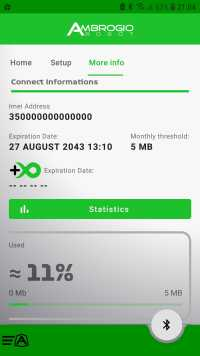
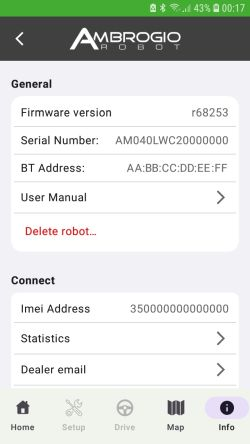
Update README

diff --git a/README.md b/README.md
@@ -68,29 +68,9 @@ Start setup:
 
 ## Configuration
 
-### Authorization
+### Start
 
 The garage name can be chosen freely.
-
-Get client key from lawn mower mobile app:
-
-   **:warning: Pay attention** Android recommended, because in the iPhone app all characters are incorrectly displayed in capital letters.
-
-1. Open the app on your mobile device.
-
-   :information_source: In the best case, you create a new account (via the mobile app) and connect it to your lawn mower(s). Then there should be no problems when you use the HA integration and the mobile app at the same time.
-
-2. Click on the `Setup` tab.
-
-3. In the `Connect Settings` section, click `Registered "Connect Clients"`:
-
-    ![Registered "Connect Clients"](https://github.com/ufozone/ha-zcs-mower/blob/main/screenshots/setup_account1.jpg?raw=true)
-
-4. You need your account key (italicized string):
-
-    ![Get account key](https://github.com/ufozone/ha-zcs-mower/blob/main/screenshots/setup_account2.jpg?raw=true)
-
-5. Type this information into the config flow dialog.
 
 ### Map
 
@@ -128,13 +108,15 @@ Get IMEI from your lawn mower(s):
 
 1. Open the app on your mobile device.
 
-2. Click on the `More info` tab and scroll to the `Connect Informations` section:
+2. Click on the `Info` tab and scroll to the `Connect` section:
 
-3. You need the `Imei Address` (bold string, starts with `3`):
+3. You need the `Imei Address` (starts with `35`):
 
     ![Get IMEI address](https://github.com/ufozone/ha-zcs-mower/blob/main/screenshots/setup_imei.jpg?raw=true)
 
 4. Type this information into the config flow dialog.
+
+### General settings
 
 ## Available components
 
@@ -229,6 +211,11 @@ _These entities are disabled by default. You have to activate it if you want to 
   | hot_temperature | Hot temperature |
   | mapping_started | Mapping started |
   | mapping_ended   | Mapping ended   |
+
+    ```text
+    attributes: 
+    connect_expiration, infinity_state, infinity_expiration
+    ```
 
 ### Vacuum
 
